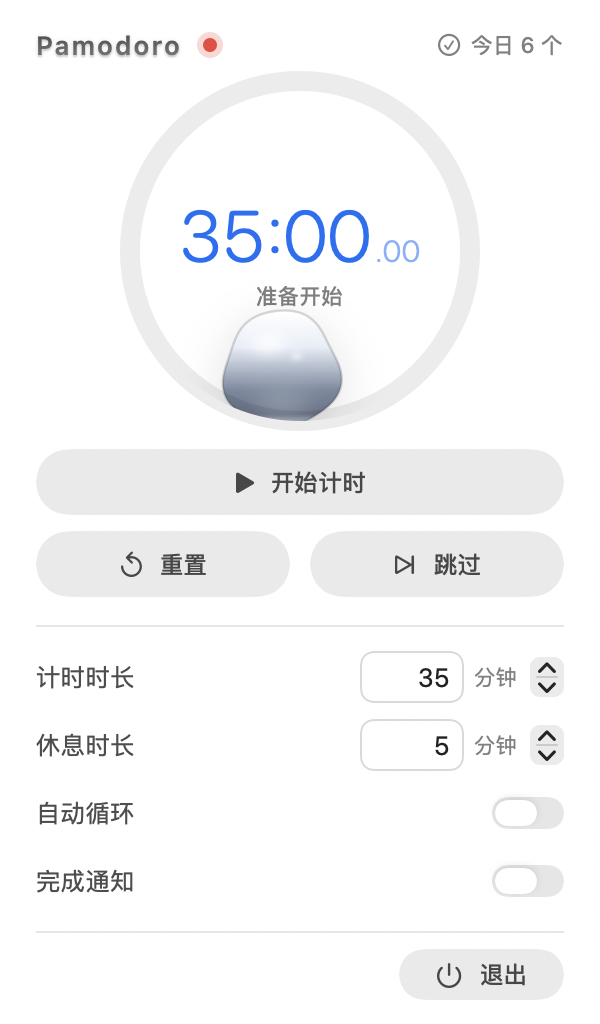
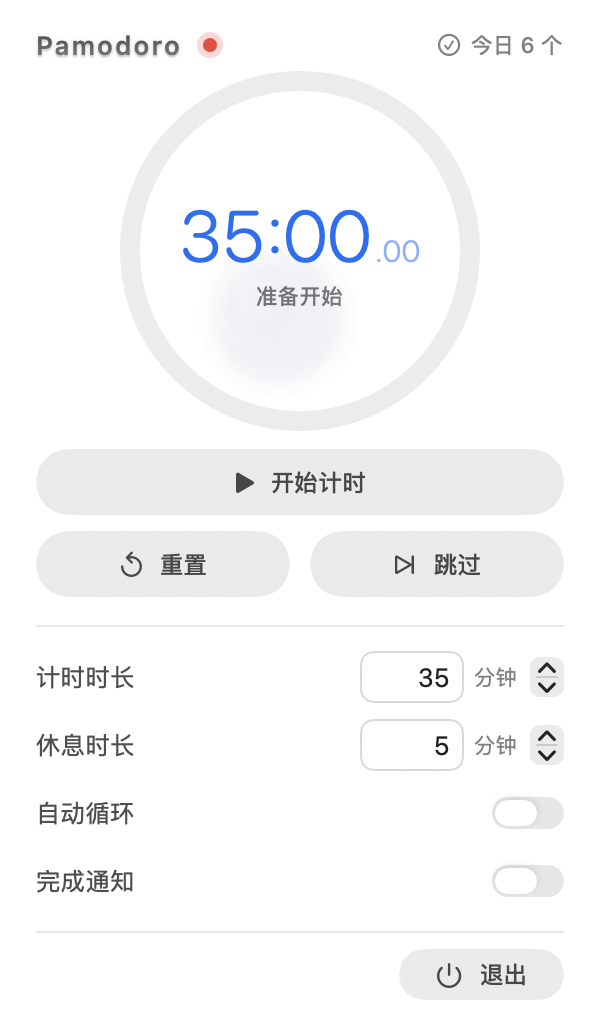
水银液体改为克制版：边缘化进背景、慢速隐隐流动；补全 README 章节

Changed region(s): [[0.36, 0.3125, 0.57, 0.4375]]

diff --git a/Sources/DialLiquid.swift b/Sources/DialLiquid.swift
@@ -1,7 +1,8 @@
 import SwiftUI
 
-/// 表盘里的一团水银：单个大液滴，缓慢漂移 + 表面轻微起伏，
-/// 用金属渐变 + 高光 + 底部反光模拟真实水银质感。
+/// 表盘背景里的「水银」——克制的液体感：
+/// 参照 iOS 26/27 Liquid Glass 的做法：材质本身是低对比、强扩散的透镜层，
+/// 高光含蓄、边缘完全化开，只靠缓慢的形变和位移让人感觉到「在流动」。
 struct DialLiquid: View {
 
     @Environment(\.colorScheme) private var colorScheme
@@ -14,20 +15,20 @@ struct DialLiquid: View {
                 let dialRadius = min(size.width, size.height) / 2
                 let dark = colorScheme == .dark
 
-                // 缓慢漂移：整体偏下半区，避免盖住时间和状态文字
-                let driftX = sin(t * 0.23) * dialRadius * 0.16
-                let driftY = center.y + dialRadius * 0.66 + cos(t * 0.17) * dialRadius * 0.04
+                // 缓慢漂移（周期约 40 秒，几乎察觉不到但一直在动）
+                let driftX = sin(t * 0.155) * dialRadius * 0.22
+                let driftY = center.y + dialRadius * 0.30 + cos(t * 0.115) * dialRadius * 0.10
                 let blobCenter = CGPoint(x: center.x + driftX, y: driftY)
-                let blobRadius = dialRadius * 0.34
+                let blobRadius = dialRadius * 0.52
 
-                // 有机外形：单一液滴，边缘缓慢起伏
+                // 有机外形：边缘缓慢起伏，但整体仍是一团
                 var path = Path()
-                let steps = 140
+                let steps = 160
                 for i in 0...steps {
                     let angle = Double(i) / Double(steps) * 2 * Double.pi
                     let wobble = 1.0
-                        + 0.050 * sin(3 * angle + t * 0.55)
-                        + 0.028 * sin(5 * angle - t * 0.40)
+                        + 0.045 * sin(2 * angle + t * 0.18)
+                        + 0.030 * sin(3 * angle - t * 0.13)
                     let radius = blobRadius * wobble
                     let point = CGPoint(x: blobCenter.x + CGFloat(cos(angle) * radius),
                                         y: blobCenter.y + CGFloat(sin(angle) * radius))
@@ -35,62 +36,42 @@ struct DialLiquid: View {
                 }
                 path.closeSubpath()
 
-                // 投影
-                var shadow = context
-                shadow.addFilter(.blur(radius: 12))
-                shadow.translateBy(x: 0, y: 7)
-                shadow.fill(path, with: .color(.black.opacity(dark ? 0.45 : 0.14)))
-
-                // 水银本体：顶部亮、腰部银、底部再反光
+                // 本体：低对比的银灰，径向在边缘之前就淡出（不出现硬边）
+                let core = dark ? Color(white: 0.92) : Color(red: 0.52, green: 0.58, blue: 0.68)
                 let body = Gradient(stops: [
-                    .init(color: dark ? Color(white: 0.80) : Color(white: 1.00), location: 0.00),
-                    .init(color: dark ? Color(white: 0.55) : Color(red: 0.90, green: 0.93, blue: 0.97), location: 0.30),
-                    .init(color: dark ? Color(white: 0.20) : Color(red: 0.45, green: 0.51, blue: 0.60), location: 0.68),
-                    .init(color: dark ? Color(white: 0.12) : Color(red: 0.36, green: 0.41, blue: 0.50), location: 0.88),
-                    .init(color: dark ? Color(white: 0.35) : Color(red: 0.78, green: 0.83, blue: 0.90), location: 1.00),
+                    .init(color: core.opacity(dark ? 0.13 : 0.16), location: 0.00),
+                    .init(color: core.opacity(dark ? 0.10 : 0.13), location: 0.55),
+                    .init(color: core.opacity(0.0), location: 0.92),
                 ])
-                context.fill(path, with: .linearGradient(
-                    body,
-                    startPoint: CGPoint(x: blobCenter.x, y: blobCenter.y - blobRadius),
-                    endPoint: CGPoint(x: blobCenter.x, y: blobCenter.y + blobRadius)))
+                context.fill(path, with: .radialGradient(body,
+                                                         center: blobCenter,
+                                                         startRadius: 0,
+                                                         endRadius: blobRadius * 1.02))
 
-                // 顶部高光（主反射）
+                // 含蓄的高光：一块柔和的偏移亮部，随液体缓慢移动
                 var highlight = context
-                highlight.addFilter(.blur(radius: 3.5))
-                let hlRect = CGRect(x: blobCenter.x - blobRadius * 0.52,
-                                    y: blobCenter.y - blobRadius * 0.62,
-                                    width: blobRadius * 0.58,
-                                    height: blobRadius * 0.30)
-                highlight.fill(Path(ellipseIn: hlRect), with: .color(.white))
-
-                // 次级小高光，增加湿润感
-                var sparkle = context
-                sparkle.addFilter(.blur(radius: 1.6))
-                let spRect = CGRect(x: blobCenter.x + blobRadius * 0.18,
-                                    y: blobCenter.y - blobRadius * 0.30,
-                                    width: blobRadius * 0.16,
-                                    height: blobRadius * 0.12)
-                sparkle.fill(Path(ellipseIn: spRect),
-                             with: .color(.white.opacity(dark ? 0.45 : 0.85)))
-
-                // 底部反射光带（桌面/环境倒影）
-                var bottomGlow = context
-                bottomGlow.addFilter(.blur(radius: 7))
-                let glowRect = CGRect(x: blobCenter.x - blobRadius * 0.46,
-                                      y: blobCenter.y + blobRadius * 0.52,
-                                      width: blobRadius * 0.92,
-                                      height: blobRadius * 0.24)
-                bottomGlow.fill(Path(ellipseIn: glowRect),
-                                with: .color(.white.opacity(dark ? 0.20 : 0.55)))
-
-                // 边缘收一下，避免糊成一坨
-                context.stroke(path,
-                               with: .color(dark ? .white.opacity(0.18) : .black.opacity(0.16)),
-                               lineWidth: 1.2)
+                highlight.addFilter(.blur(radius: 9))
+                let hlRadius = blobRadius * 0.34
+                let hlCenter = CGPoint(x: blobCenter.x - blobRadius * 0.26,
+                                       y: blobCenter.y - blobRadius * 0.24)
+                let hlGradient = Gradient(colors: [
+                    Color.white.opacity(dark ? 0.16 : 0.42),
+                    Color.white.opacity(0.0),
+                ])
+                highlight.fill(Path(ellipseIn: CGRect(x: hlCenter.x - hlRadius,
+                                                      y: hlCenter.y - hlRadius,
+                                                      width: hlRadius * 2,
+                                                      height: hlRadius * 2)),
+                               with: .radialGradient(hlGradient,
+                                                     center: hlCenter,
+                                                     startRadius: 0,
+                                                     endRadius: hlRadius))
             }
+            // 整体再糊一层：边缘彻底化进背景，只在明暗上留下流动的痕迹
+            .blur(radius: 13)
         }
         .clipShape(Circle())
-        .opacity(0.95)
         .allowsHitTesting(false)
+        .opacity(0.95)
     }
 }

diff --git a/README.md b/README.md
@@ -17,7 +17,7 @@
    - 右键点 App → **打开** → 再点「打开」
    - 或 系统设置 → 隐私与安全性 → 底部「**仍要打开**」
    - 或终端 `xattr -dr com.apple.quarantine /Applications/Pomodoro.app`
-4. 打开后不会出现在 Dock，只在屏幕右上角菜单栏（`Pomodoro` 图标 + 倒计时）
+4. 打开后不会出现在 Dock，只在屏幕右上角菜单栏（计时器图标 + 倒计时）
 
 > 想开机自启：系统设置 → 通用 → 登录项 → 「登录时打开」选择 Pomodoro.app。
 
@@ -75,7 +75,7 @@ open /Applications/Pomodoro.app
 
 ## 功能
 
-- **菜单栏常驻倒计时**：计时状态是 8-bit 像素麦金塔 + `24:59`，休息状态换成冒热气的像素咖啡杯 + `4:10`，等宽数字不跳动
+- **菜单栏常驻倒计时**：计时状态是 8-bit 像素麦金塔 + `24:59`，休息状态换成冒热气的像素咖啡杯 + `4:10`
 - **毫秒显示**：面板里秒后面跟两位毫秒（`29:13.99`，50fps 刷新）；状态栏仍只显示到秒
 - **点击开面板**：环形进度、大号等宽时间、胶囊按钮；右键图标可直接退出
 - **点击表盘**：直接点圆形表盘即可开始 / 暂停 / 继续（悬停时光标变手型、状态文字提示当前动作）
@@ -84,15 +84,58 @@ open /Applications/Pomodoro.app
 - **自动循环**：一轮 = 一次计时 + 一次休息。开启时休息结束自动进入下一轮；关闭时休息结束即自动停止
 - **结束提示音**：播放内置的 `Resources/pomo-chime.mp3`（约 6 秒），响度跟随系统输出音量；
   若音频缺失会自动退回合成的电子表蜂鸣（4000 Hz「滴滴。。」）
-- **提示音不计时**：提示音期间计时暂停、下一阶段不启动，响完才开始（时长按音频实际长度自动适配）；
-  想提前开始可以点表盘或主按钮「跳过提醒，立即开始」
-- **点击音效**：从提示音里截出 **0.11 秒**的极短尾音（`Resources/click.wav`），
-  所有按钮（开始 / 暂停 / 重置 / 跳过 / 退出）共用这一个音，音量固定为提醒音量的 **30%**，
-  短促克制；素材缺失时退回合成的 90ms「啪嗒」。
+- **提示音不计时**：提示音期间计时暂停、下一阶段不启动，响完才开始（时长按音频实际长度自动适配）
+- **点击音效**：所有按钮共用同一段 0.11 秒的短音（`Resources/click.wav`），音量固定为提醒音量的 30%
+- **今日计数**：以北京时间 00:00 为一天的分界，跨天自动归零，无需重启
+- **设置持久化**：写入 `UserDefaults`，重启后保留
+
+## 使用说明
+
+| 操作 | 说明 |
+| --- | --- |
+| 左键点图标 | 打开 / 收起面板 |
+| 右键点图标 | 菜单：退出 |
+| 面板主按钮 / 点表盘 | 开始计时 / 暂停 / 继续（每次点击都有短音反馈） |
+| 重置 / 跳过 | 重置回待机；跳过当前阶段 |
+| 自动循环 | 关掉后，一整轮（计时 + 休息）跑完自动停 |
+| 提醒中 | 提示音期间计时暂停；点表盘 / 主按钮可跳过提醒立即开始 |
+| 今日 N 个 | 每个完成的计时阶段 +1，北京时间零点清零 |
+| 退出 | 面板右下角的胶囊按钮，点击响一声后退出 |
+
+菜单栏图标位置：按住 `Cmd` 拖动即可排序或移除。
+
+卸载：
+
+```bash
+pkill -x Pomodoro
+defaults delete local.maxwell.pomodoro
+rm -rf /Applications/Pomodoro.app
+```
+
+## 实现要点
+
+- **状态栏**：`NSStatusItem` + 固定宽度（按两种像素图标里更宽的一档算），倒计时位数在
+  `5:00` / `25:00` / `180:00` 之间变化都不会让 item 伸缩——否则锚定其上的面板会跟着左右跳。
+- **像素图标**：`PixelIcon` 用 16×16 字符画渲染成模板位图，每格固定 2×2 设备像素，
+  2x 屏上边缘是硬的；计时为像素麦金塔、休息为冒热气的像素咖啡杯，深浅色自动反色。
+- **面板**：`NSPopover` + SwiftUI。`NSPopover` 自带的菜单栏定位会把面板顶出屏幕上沿
+  （顶部被裁），因此另做了屏幕几何校正，把面板夹在图标正下方与可见区域内。
+- **统一配色**：表盘与主按钮在任何状态都是「浅色底 + 强调色文字 + 细描边」，
+  状态差异交给左上角运行灯（绿 = 计时中，红 = 暂停 / 待机）和进度环；深色模式换成深色底。
+- **标题**：左上角 `Pamodoro` 做了刻字质感——深色字面 + 下缘高光 + 上缘暗影。
+- **表盘液体**：`DialLiquid` 用 `TimelineView(.animation)` + `Canvas` 画一团**低对比、强扩散**的
+  水银——单一大液滴以约 40 秒周期缓慢漂移、边缘极轻地起伏，径向渐变在边缘之前就淡出，
+  再叠 13pt 模糊整体化进背景；只有缓慢移动的明暗，没有清晰轮廓。深色模式自动降低亮度。
+- **计时状态机**：单一 `Timer`（20ms 间隔）驱动 `remaining`，毫秒由剩余时间直接算出；
+  阶段切换集中在 `finishPhase()`，跨天归零用「下一个北京时间零点」的一次性 Timer 驱动。
+- **提示音**：优先用 `AVAudioPlayer` 播放 bundle 里的 `pomo-chime.mp3`，取它的 `duration`
+  来决定「响完再开始」的延时；没有音频文件时退回合成 WAV（老式电子表「滴滴。。」）。
+- **点击音效**：从提示音里截出 0.11 秒的极短尾音（`Resources/click.wav`），
+  所有按钮共用，音量 30%；素材缺失时退回合成的 90ms「啪嗒」。
 - **初始化**：先读出全部 `UserDefaults` 再统一赋值，并用 `isLoading` 标记挡掉初始化期间的
   `didSet` 回写，防止启动时把用户设置覆盖成默认值。
 - **分发**：`build.sh` 分别编译 `arm64` 与 `x86_64`，用 `lipo` 合成通用二进制，
-  再 ad-hoc 签名打 zip 发 Release（因此未公证，首次打开需要手动放行）。
+  再 ad-hoc 签名打包（zip / dmg）发 Release（因此未公证，首次打开需要手动放行）。
 
 ## 目录结构
 
@@ -102,7 +145,11 @@ open /Applications/Pomodoro.app
 │   ├── main.swift            # AppDelegate：状态栏 item、popover、调试钩子
 │   ├── PomodoroEngine.swift  # 计时状态机 + 持久化 + 每日归零
 │   ├── PopoverView.swift     # SwiftUI 面板
-│   └── WatchBeep.swift       # 合成电子表蜂鸣
+│   ├── DialLiquid.swift      # 表盘里的水银液体
+│   ├── PixelIcon.swift       # 8-bit 像素图标（麦金塔 / 咖啡杯）
+│   ├── StatusIcon.swift      # 菜单栏图标入口
+│   ├── SoundFX.swift         # 按钮点击音
+│   └── WatchBeep.swift       # 结束提示音（含合成兜底）
 ├── Resources/
 │   ├── AppIcon.icns          # App 图标
 │   ├── AppIcon-1024.png      # 图标预览
@@ -111,8 +158,9 @@ open /Applications/Pomodoro.app
 ├── Preview/                  # README 用的界面截图
 ├── Scripts/make-icon.swift   # 图标绘制脚本
 ├── Info.plist                # LSUIElement=true（只驻留菜单栏）
-├── build.sh                  # swiftc 编译 + ad-hoc 签名 + 拷贝图标
-└── run.sh                    # build + open
+├── build.sh                  # 编译 arm64 + x86_64 → lipo → 签名
+├── run.sh                    # build + open
+└── LICENSE                   # MIT
 ```
 
 ## 调试
@@ -124,8 +172,12 @@ POMODORO_DEBUG=1 POMODORO_DEBUG_START=1 ./Build/Pomodoro.app/Contents/MacOS/Pomo
 # 离屏渲染面板与状态栏截图（不需要屏幕录制权限）
 POMODORO_SNAPSHOT=/tmp/snap ./Build/Pomodoro.app/Contents/MacOS/Pomodoro
 POMODORO_SNAPSHOT=/tmp/snap POMODORO_SNAPSHOT_RUNNING=1 ./Build/Pomodoro.app/Contents/MacOS/Pomodoro
+POMODORO_SNAPSHOT=/tmp/snap POMODORO_SNAPSHOT_PAUSED=1 ./Build/Pomodoro.app/Contents/MacOS/Pomodoro
 POMODORO_SNAPSHOT=/tmp/snap POMODORO_SNAPSHOT_REST=1 ./Build/Pomodoro.app/Contents/MacOS/Pomodoro
 POMODORO_SNAPSHOT=/tmp/snap POMODORO_SNAPSHOT_APPEARANCE=dark ./Build/Pomodoro.app/Contents/MacOS/Pomodoro
+
+# 连拍两帧，用于验证液体动效确实在跑
+POMODORO_SNAPSHOT=/tmp/snap POMODORO_SNAPSHOT_TWICE=1 ./Build/Pomodoro.app/Contents/MacOS/Pomodoro
 
 # 面板窗口 / 屏幕几何
 POMODORO_DEBUG_POPOVER=1 ./Build/Pomodoro.app/Contents/MacOS/Pomodoro
@@ -140,8 +192,6 @@ POMODORO_DEBUG=1 POMODORO_DEBUG_LOOP=1 ./Build/Pomodoro.app/Contents/MacOS/Pomod
 # 验证跨天归零
 POMODORO_DEBUG=1 POMODORO_DEBUG_ROLLOVER=1 ./Build/Pomodoro.app/Contents/MacOS/Pomodoro
 ```
-
-`POMODORO_SNAPSHOT` 会写出 `-popover.png`、`-status-light.png`、`-status-dark.png` 后自动退出。
 
 ## 其他实现方案
 
